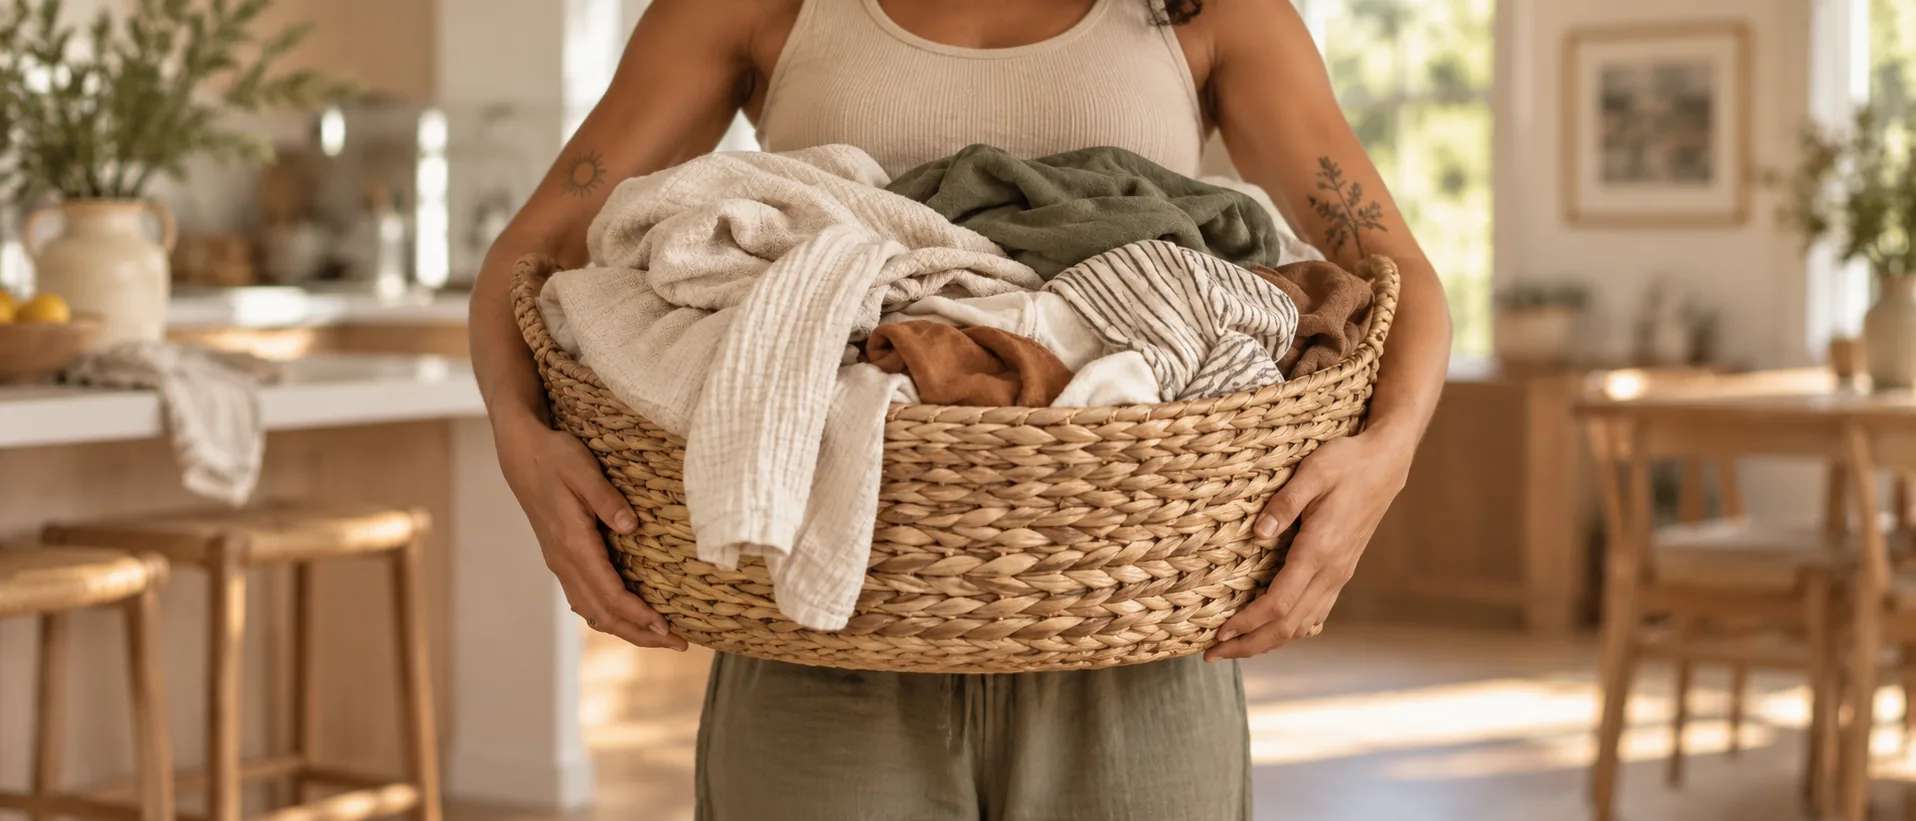
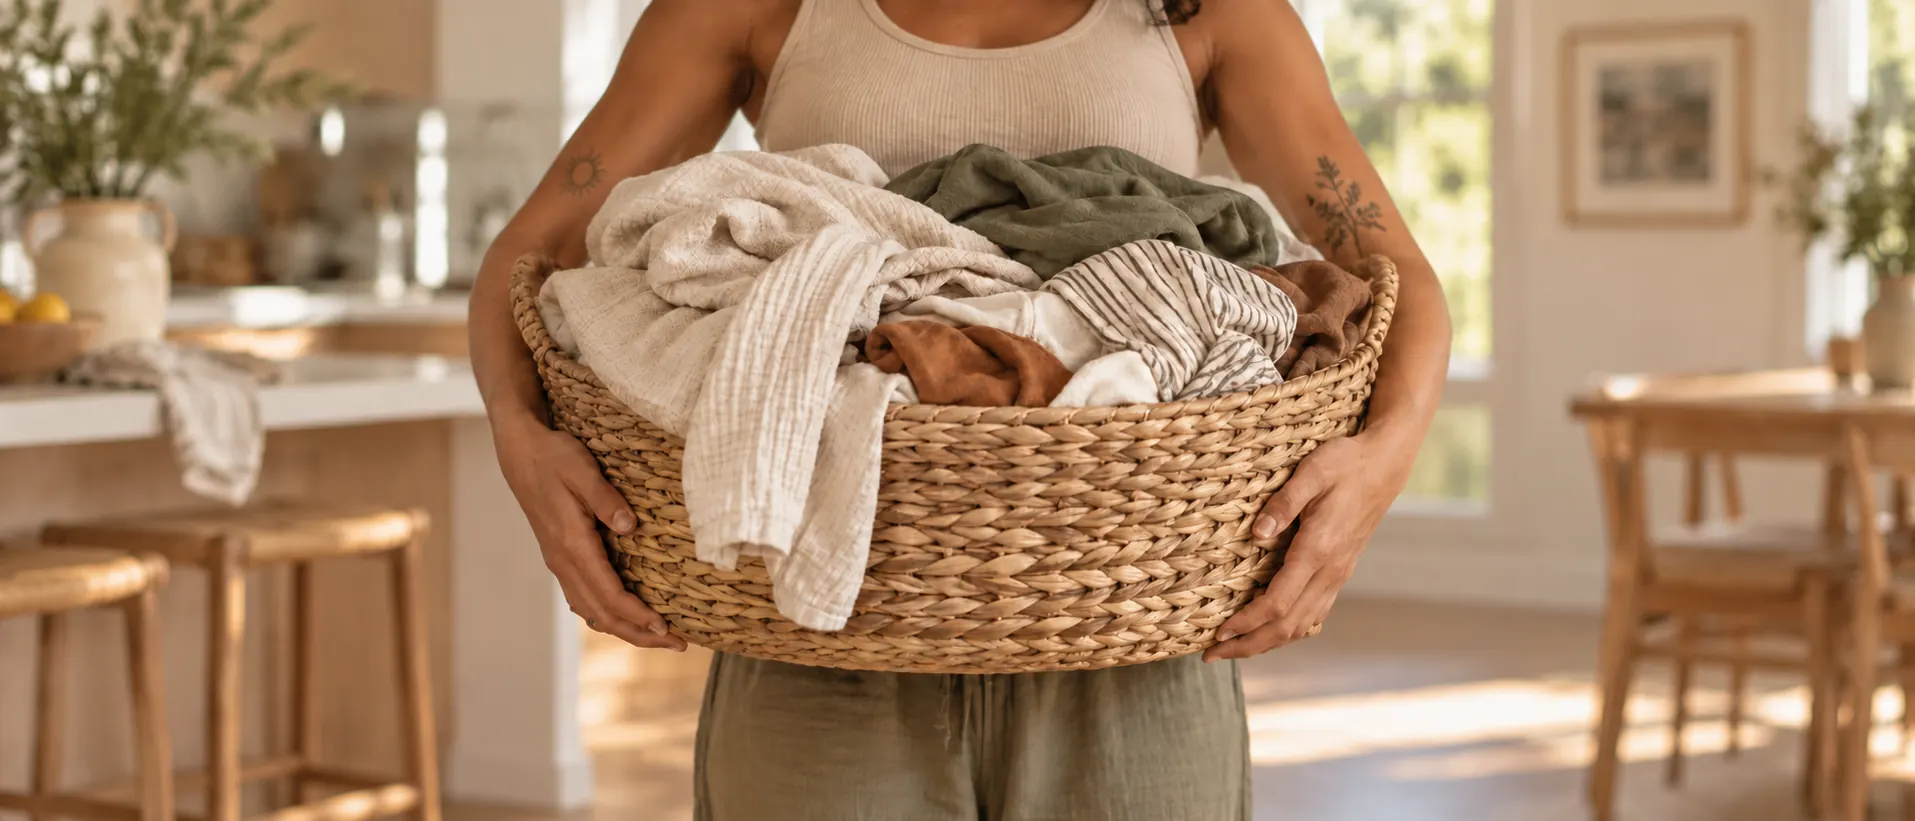
feat: mark contact and early-access lines and update helper WebP files
Give those supporting lines the same sand-mark treatment as the rest of the site, and replace the unused helper WebP copies with the newer photos.

diff --git a/components/early-access-page-content.tsx b/components/early-access-page-content.tsx
@@ -37,7 +37,9 @@ export function EarlyAccessPageContent() {
         <h1 ref={postSubmitHeadingRef} tabIndex={-1}>
           {POST_SUBMIT_HEADING}
         </h1>
-        <p>{POST_SUBMIT_SUPPORTING}</p>
+        <p>
+          <span className="sand-mark shape-1">{POST_SUBMIT_SUPPORTING}</span>
+        </p>
         <Card>
           <Alert variant="success">{EARLY_ACCESS_SUCCESS_MESSAGE}</Alert>
         </Card>
@@ -57,9 +59,11 @@ export function EarlyAccessPageContent() {
       <div className="early-access-intro">
         <div className="early-access-intro-copy">
           <h1>{EARLY_ACCESS_HEADING}</h1>
-          <p>{EARLY_ACCESS_SUPPORTING}</p>
-          <p className="early-access-communities">
-            We&apos;re preparing a pilot in {formatPilotCommunityList(PILOT_COMMUNITIES)}.
+          <p>
+            <span className="sand-mark shape-2">
+              {EARLY_ACCESS_SUPPORTING} We&apos;re preparing a pilot in{" "}
+              {formatPilotCommunityList(PILOT_COMMUNITIES)}.
+            </span>
           </p>
         </div>
         <div className="early-access-hero-photo" style={heroFrameStyle}>

diff --git a/app/contact/page.tsx b/app/contact/page.tsx
@@ -30,7 +30,9 @@ export default function ContactPage() {
         />
       </div>
       <h1>{CONTACT_HEADING}</h1>
-      <p>{CONTACT_SUPPORTING}</p>
+      <p>
+        <span className="sand-mark shape-2">{CONTACT_SUPPORTING}</span>
+      </p>
       <ContactForm />
       <p className="contact-helpers-note">
         {CONTACT_HELPERS_NOTE_LEAD}{" "}
